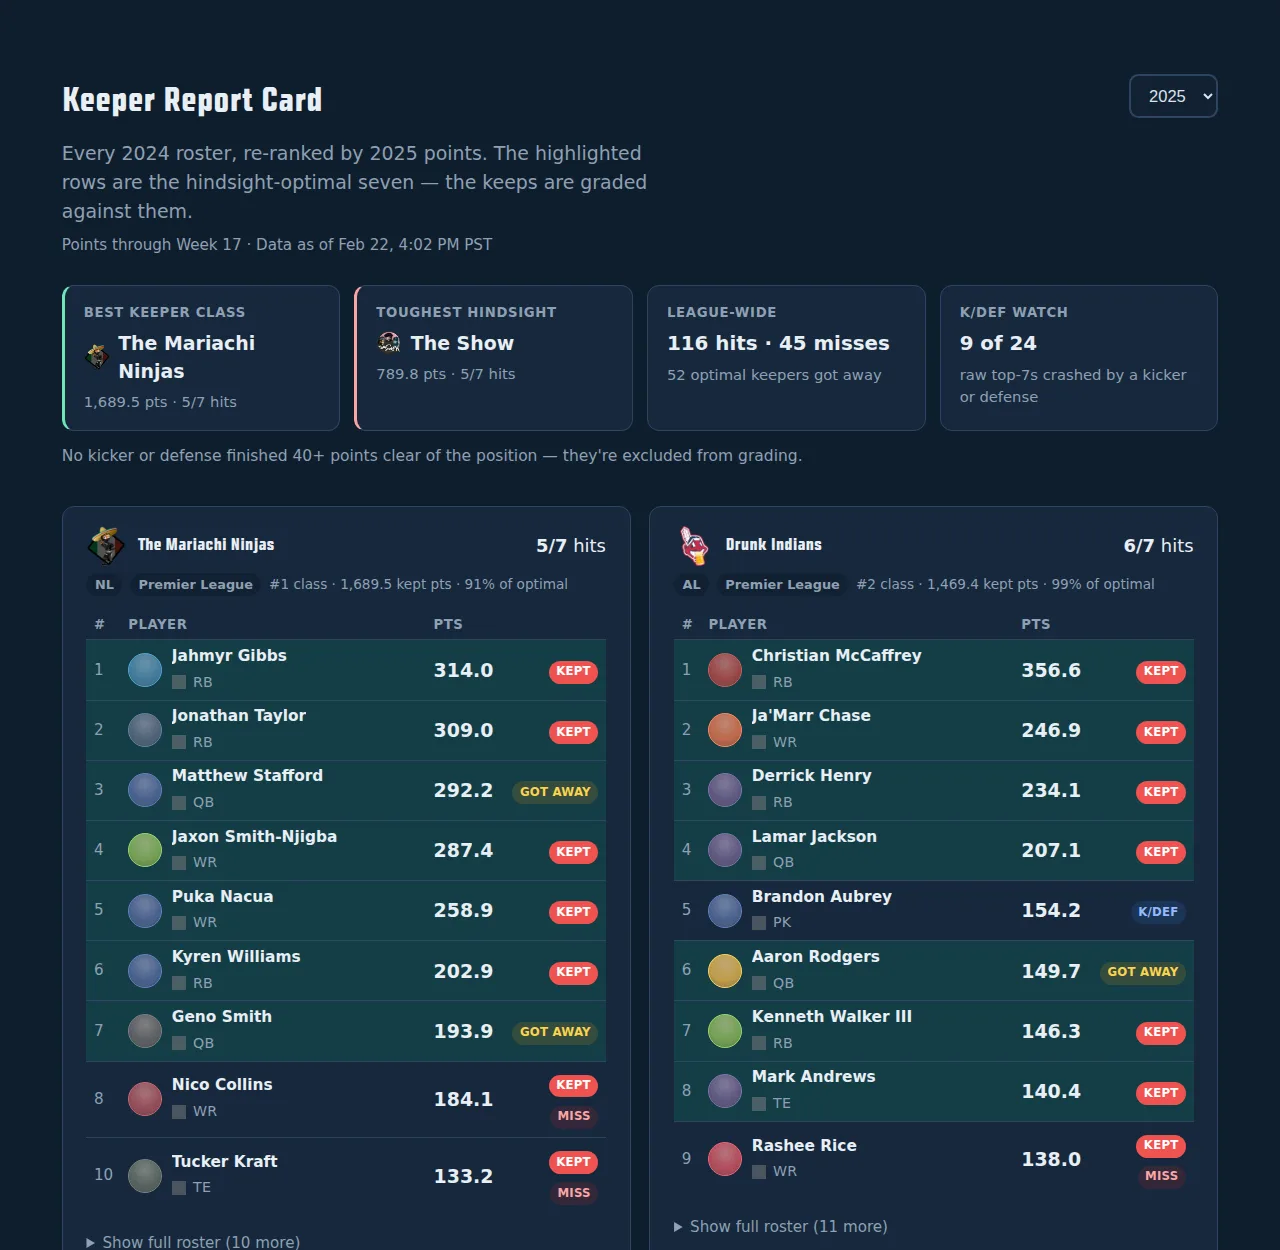
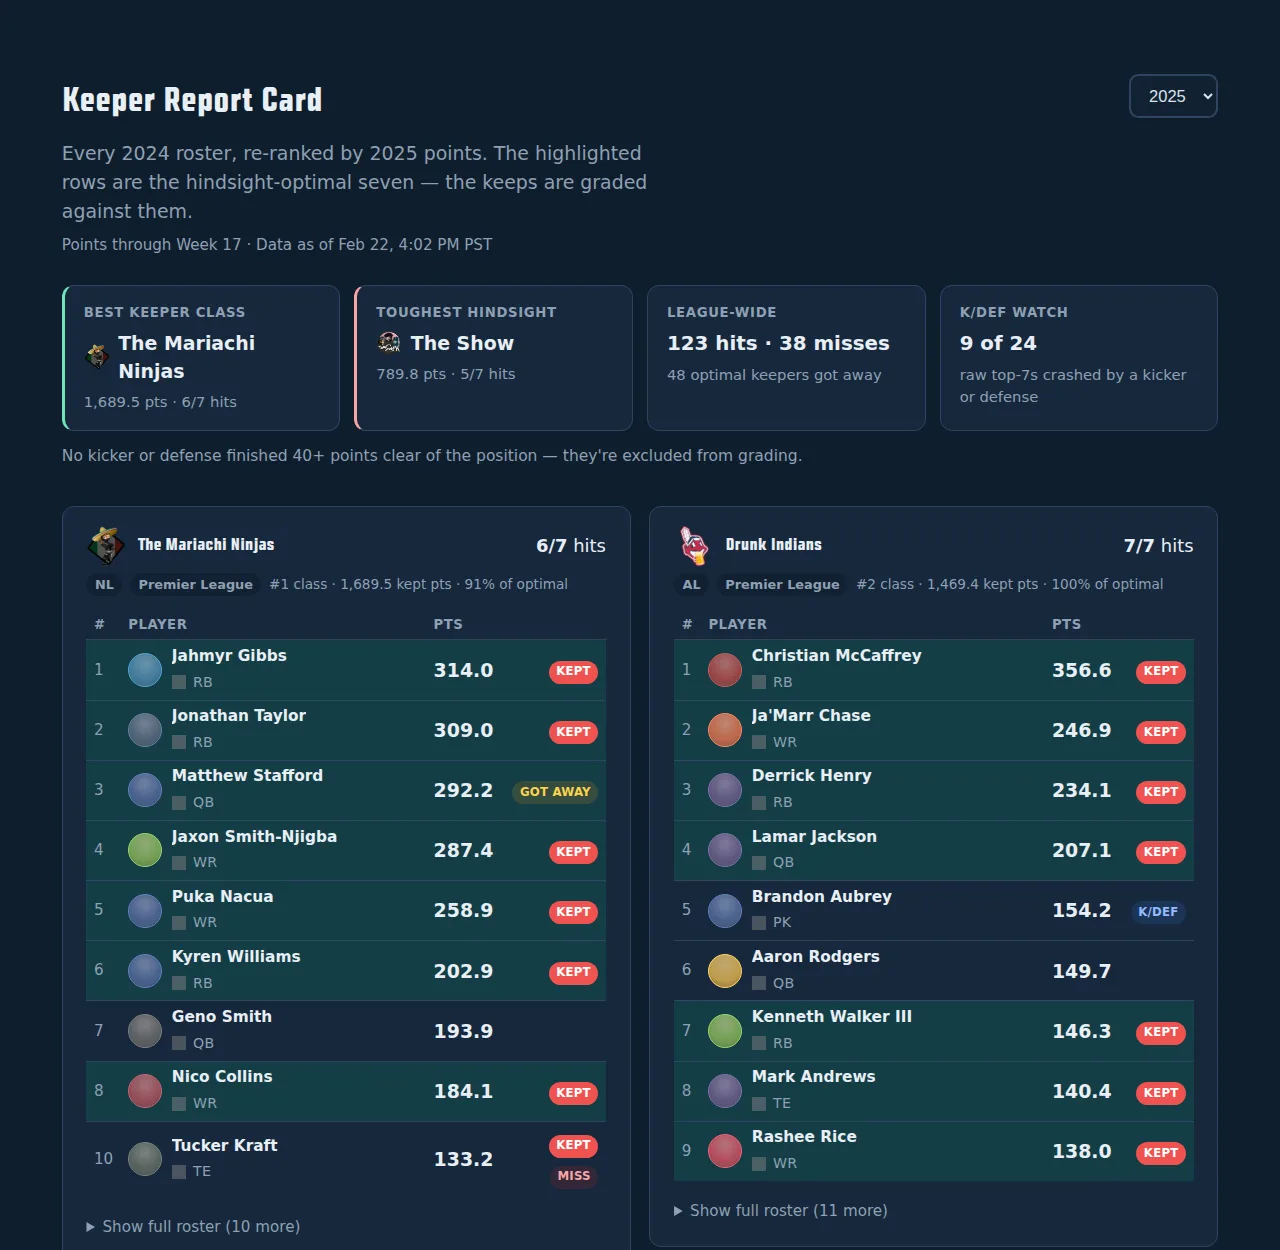
Refine keeper grading: one-QB optimal cap and earned K/DEF hits
Two grading rule refinements to the Keeper Report Card:

- No team keeps two QBs, so only a roster's top-scoring QB is eligible
  for the optimal seven. A backup QB can no longer show up as "got
  away," and a kept backup QB is neutral (QB2 badge) — never a miss.
- A kept kicker, defense, or backup QB that outscored an optimal player
  the team let walk now grades as a hit — the keep objectively paid off.

2024→2025 effect: league-wide grades move from 116 hits / 45 misses /
52 got-aways to 123 / 38 / 48. Methodology notes, What's New copy, and
screenshots updated; new unit tests cover the QB cap, the neutral
backup-QB path, and the outscored-alternative hit upgrade in both
directions.

Claude-Session: https://claude.ai/code/session_01UuGm7ho2KjSreH3vj5VuFM

diff --git a/tests/afl-keeper-analysis.test.ts b/tests/afl-keeper-analysis.test.ts
@@ -195,6 +195,32 @@ describe('computeOptimalSeven', () => {
     expect(optimal).toHaveLength(7);
   });
 
+  it('caps the optimal seven at one QB (the roster top scorer)', () => {
+    const twoQbPlayers = playersFeed([
+      ['q1', 'Quarterback, One', 'QB'],
+      ['q2', 'Quarterback, Two', 'QB'],
+      ['r1', 'Runner, One', 'RB'],
+      ['r2', 'Runner, Two', 'RB'],
+      ['w1', 'Wideout, One', 'WR'],
+      ['w2', 'Wideout, Two', 'WR'],
+      ['t1', 'Tightend, One', 'TE'],
+      ['t2', 'Tightend, Two', 'TE'],
+    ]);
+    const twoQbById = buildPlayersById(twoQbPlayers, undefined);
+    const twoQbRoster = new Set(['q1', 'q2', 'r1', 'r2', 'w1', 'w2', 't1', 't2']);
+    // Both QBs are top-2 raw scorers; only q1 may enter the optimal seven.
+    const twoQbPoints = new Map([
+      ['q1', 300], ['q2', 290],
+      ['r1', 200], ['r2', 190], ['w1', 180], ['w2', 170], ['t1', 160], ['t2', 150],
+    ]);
+    const { optimal, rawTopSeven } = computeOptimalSeven(twoQbRoster, twoQbPoints, twoQbById, new Set());
+    expect(optimal).toContain('q1');
+    expect(optimal).not.toContain('q2');
+    expect(optimal).toHaveLength(7); // t2 backfills the slot
+    expect(optimal).toContain('t2');
+    expect(rawTopSeven).toContain('q2'); // raw view is unfiltered
+  });
+
   it('breaks point ties deterministically by id', () => {
     const tied = new Map(points);
     tied.set('x1', 140); // tie with t2 at the 7th-slot boundary
@@ -245,6 +271,78 @@ describe('gradeFranchise', () => {
     expect(analysis.hits).toBe(6);
     expect(analysis.misses).toBe(0);
     expect(analysis.gotAway).toBe(1); // t2
+  });
+
+  it('kept backup QB is neutral, not a miss; letting a backup QB walk is not got-away', () => {
+    const twoQbPlayers = playersFeed([
+      ['q1', 'Quarterback, One', 'QB'],
+      ['q2', 'Quarterback, Two', 'QB'],
+      ['r1', 'Runner, One', 'RB'],
+      ['r2', 'Runner, Two', 'RB'],
+      ['w1', 'Wideout, One', 'WR'],
+      ['w2', 'Wideout, Two', 'WR'],
+      ['t1', 'Tightend, One', 'TE'],
+      ['t2', 'Tightend, Two', 'TE'],
+      ['x1', 'Extra, One', 'WR'],
+    ]);
+    const twoQbById = buildPlayersById(twoQbPlayers, undefined);
+    const twoQbRoster = new Set(['q1', 'q2', 'r1', 'r2', 'w1', 'w2', 't1', 't2', 'x1']);
+    const twoQbPoints = new Map([
+      ['q1', 300], ['q2', 290],
+      ['r1', 200], ['r2', 190], ['w1', 180], ['w2', 170], ['t1', 160], ['t2', 150],
+      ['x1', 10],
+    ]);
+    // Kept both QBs plus 5 of the optimal; t1 (160) and t2 (150) walked.
+    const twoQbKept = new Set(['q1', 'q2', 'r1', 'r2', 'w1', 'w2', 'x1']);
+    const analysis = gradeFranchise('0001', twoQbRoster, twoQbKept, twoQbPoints, twoQbById, new Set());
+    const byPid = Object.fromEntries(analysis.players.map((p) => [p.id, p.badge]));
+    // q2 (290) outscored t1 (160), the best optimal player let go → good keeper.
+    expect(byPid['q2']).toBe('hit');
+    expect(byPid['x1']).toBe('miss');
+    expect(analysis.gotAway).toBe(2); // t1, t2 — q2 never counts as got-away
+
+    // Same shape but the backup QB underperformed the walked alternative.
+    const weakQ2 = new Map(twoQbPoints);
+    weakQ2.set('q2', 120); // below t1's 160 and t2's 150
+    const analysis2 = gradeFranchise('0001', twoQbRoster, twoQbKept, weakQ2, twoQbById, new Set());
+    const byPid2 = Object.fromEntries(analysis2.players.map((p) => [p.id, p.badge]));
+    expect(byPid2['q2']).toBe('qb2-neutral'); // never a miss
+    expect(analysis2.backupQbNeutralKept).toBe(1);
+    expect(analysis2.misses).toBe(1); // only x1
+  });
+
+  it('kept K/DEF that outscored a walked optimal player grades a hit', () => {
+    const kdefPlayers = playersFeed([
+      ['q1', 'Quarterback, One', 'QB'],
+      ['r1', 'Runner, One', 'RB'],
+      ['r2', 'Runner, Two', 'RB'],
+      ['w1', 'Wideout, One', 'WR'],
+      ['w2', 'Wideout, Two', 'WR'],
+      ['t1', 'Tightend, One', 'TE'],
+      ['t2', 'Tightend, Two', 'TE'],
+      ['k1', 'Kicker, Alpha', 'PK'],
+    ]);
+    const kdefById = buildPlayersById(kdefPlayers, undefined);
+    const kdefRoster = new Set(['q1', 'r1', 'r2', 'w1', 'w2', 't1', 't2', 'k1']);
+    const kdefPoints = new Map([
+      ['q1', 300], ['r1', 200], ['r2', 190], ['w1', 180], ['w2', 170],
+      ['t1', 160], ['t2', 150], ['k1', 155],
+    ]);
+    // Kept the kicker over t2; k1 (155) outscored the walked t2 (150).
+    const keptWithK = new Set(['q1', 'r1', 'r2', 'w1', 'w2', 't1', 'k1']);
+    const analysis = gradeFranchise('0001', kdefRoster, keptWithK, kdefPoints, kdefById, new Set());
+    const byPid = Object.fromEntries(analysis.players.map((p) => [p.id, p.badge]));
+    expect(byPid['k1']).toBe('hit'); // the keep paid off
+    expect(analysis.hits).toBe(7);
+    expect(analysis.kdefNeutralKept).toBe(0);
+
+    // Kicker below the walked alternative stays neutral (never a miss).
+    const weakK = new Map(kdefPoints);
+    weakK.set('k1', 100);
+    const analysis2 = gradeFranchise('0001', kdefRoster, keptWithK, weakK, kdefById, new Set());
+    const byPid2 = Object.fromEntries(analysis2.players.map((p) => [p.id, p.badge]));
+    expect(byPid2['k1']).toBe('kdef-neutral');
+    expect(analysis2.misses).toBe(0);
   });
 
   it('computes kept/optimal points and efficiency', () => {
@@ -328,7 +426,7 @@ describe.runIf(hasRealFeeds)('integration: 2024→2025 cycle (real feeds)', () =
     for (const f of analysis.franchises) {
       expect(f.keptCount).toBeGreaterThanOrEqual(6);
       expect(f.keptCount).toBeLessThanOrEqual(7);
-      expect(f.hits + f.misses + f.kdefNeutralKept).toBe(f.keptCount);
+      expect(f.hits + f.misses + f.kdefNeutralKept + f.backupQbNeutralKept).toBe(f.keptCount);
       expect(f.optimalPoints).toBeGreaterThan(0);
     }
     // 2025 had no 40-pt dominant K/DEF (max gap: Seahawks D, 31).

diff --git a/src/utils/afl-keeper-analysis.ts b/src/utils/afl-keeper-analysis.ts
@@ -29,6 +29,12 @@ export const KDEF_GAP_THRESHOLD = 40;
 
 const KDEF_POSITIONS = new Set(['PK', 'Def']);
 
+/**
+ * No team keeps two QBs, so only a roster's top-scoring QB is eligible for
+ * the optimal seven, and a kept backup QB is neutral — never a miss.
+ */
+export const MAX_OPTIMAL_QBS = 1;
+
 // --- Feed shapes (loose — MFL JSON is stringly typed) ---
 
 interface MflWeeklyPlayer {
@@ -89,7 +95,7 @@ export interface PlayerInfo {
 
 // --- Output shapes ---
 
-export type KeeperBadge = 'hit' | 'miss' | 'got-away' | 'kdef-neutral';
+export type KeeperBadge = 'hit' | 'miss' | 'got-away' | 'kdef-neutral' | 'qb2-neutral';
 
 export interface AnalyzedPlayer extends PlayerInfo {
   points: number;
@@ -112,6 +118,8 @@ export interface FranchiseAnalysis {
   gotAway: number;
   /** Kept K/DEF in a non-exception season — shown, never counted as a miss. */
   kdefNeutralKept: number;
+  /** Kept backup QBs (beyond the team's best kept QB) — shown, never a miss. */
+  backupQbNeutralKept: number;
   /** K/DEF that cracked the raw (unfiltered) top seven. */
   kdefRawTopSevenCount: number;
   keptPoints: number;
@@ -313,8 +321,10 @@ function rankByPoints(pids: Iterable<string>, points: Map<string, number>): stri
 }
 
 /**
- * The hindsight-optimal seven for a prev roster (K/DEF excluded unless the
- * position earned a dominance exception) plus the unfiltered raw top seven.
+ * The hindsight-optimal seven for a prev roster plus the unfiltered raw
+ * top seven. Position rules:
+ * - K/DEF excluded unless the position earned a dominance exception.
+ * - At most one QB (the roster's top scorer) — no team keeps two.
  */
 export function computeOptimalSeven(
   prevRosterPids: Set<string>,
@@ -323,9 +333,15 @@ export function computeOptimalSeven(
   exceptionPositions: Set<string>
 ): { optimal: string[]; rawTopSeven: string[] } {
   const ranked = rankByPoints(prevRosterPids, points);
+  let qbsTaken = 0;
   const eligible = ranked.filter((pid) => {
     const position = playersById.get(pid)?.position ?? '?';
-    return !KDEF_POSITIONS.has(position) || exceptionPositions.has(position);
+    if (KDEF_POSITIONS.has(position) && !exceptionPositions.has(position)) return false;
+    if (position === 'QB') {
+      if (qbsTaken >= MAX_OPTIMAL_QBS) return false;
+      qbsTaken += 1;
+    }
+    return true;
   });
   return {
     optimal: eligible.slice(0, KEEPER_LIMIT),
@@ -352,6 +368,18 @@ export function gradeFranchise(
   const rawTopSet = new Set(rawTopSeven);
   const ranked = rankByPoints(prevRosterPids, points);
 
+  // The marginal alternative: the lowest-scoring optimal player the team
+  // did NOT keep. A kept K/DEF or backup QB that outscored them was a good
+  // keeper in hindsight — grade it a hit, not a neutral.
+  const optimalNotKept = optimal.filter((pid) => !kept.has(pid));
+  const marginalAltPoints = optimalNotKept.length
+    ? Math.min(...optimalNotKept.map((pid) => points.get(pid) ?? 0))
+    : Infinity;
+
+  // A team's best-scoring kept QB grades normally; further kept QBs are
+  // backups — nobody keeps two, so they can never be a miss.
+  const topKeptQb = ranked.find((pid) => kept.has(pid) && playersById.get(pid)?.position === 'QB');
+
   const players: AnalyzedPlayer[] = ranked.map((pid, i) => {
     const info = playersById.get(pid) ?? {
       id: pid,
@@ -359,20 +387,24 @@ export function gradeFranchise(
       position: '?',
       nflTeam: '',
     };
+    const playerPoints = points.get(pid) ?? 0;
     const isKept = kept.has(pid);
     const isOptimal = optimalSet.has(pid);
-    const isKdef = KDEF_POSITIONS.has(info.position);
-    const gradable = !isKdef || exceptionPositions.has(info.position);
+    const isNeutralKdef =
+      KDEF_POSITIONS.has(info.position) && !exceptionPositions.has(info.position);
+    const isBackupKeptQb = isKept && info.position === 'QB' && pid !== topKeptQb;
+    const beatMarginalAlt = playerPoints > marginalAltPoints;
 
     let badge: KeeperBadge | null = null;
     if (isKept && isOptimal) badge = 'hit';
-    else if (isKept && !gradable) badge = 'kdef-neutral';
+    else if (isKept && isNeutralKdef) badge = beatMarginalAlt ? 'hit' : 'kdef-neutral';
+    else if (isBackupKeptQb) badge = beatMarginalAlt ? 'hit' : 'qb2-neutral';
     else if (isKept) badge = 'miss';
     else if (isOptimal) badge = 'got-away';
 
     return {
       ...info,
-      points: points.get(pid) ?? 0,
+      points: playerPoints,
       rank: i + 1,
       kept: isKept,
       optimal: isOptimal,
@@ -393,6 +425,7 @@ export function gradeFranchise(
     misses: players.filter((p) => p.badge === 'miss').length,
     gotAway: players.filter((p) => p.badge === 'got-away').length,
     kdefNeutralKept: players.filter((p) => p.badge === 'kdef-neutral').length,
+    backupQbNeutralKept: players.filter((p) => p.badge === 'qb2-neutral').length,
     kdefRawTopSevenCount: players.filter(
       (p) => p.rawTopSeven && KDEF_POSITIONS.has(p.position)
     ).length,
